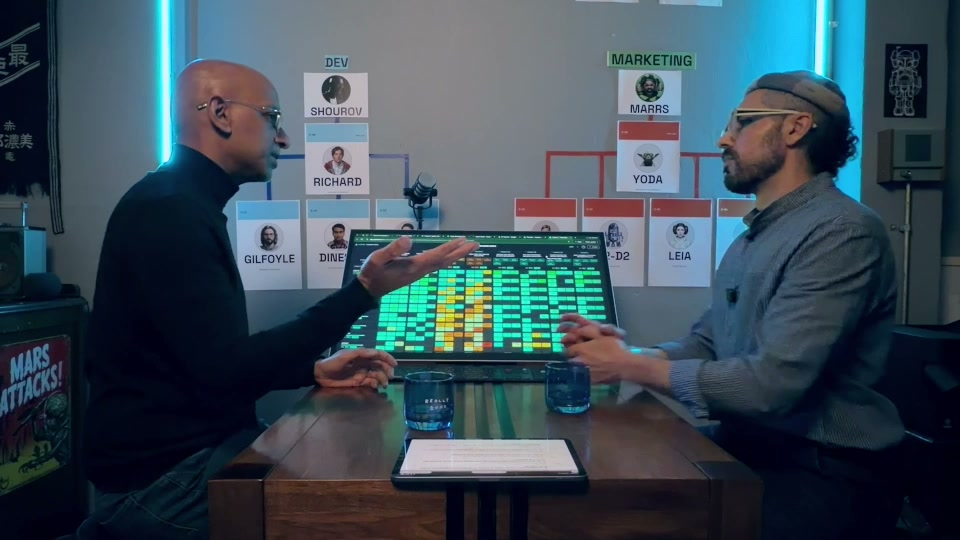
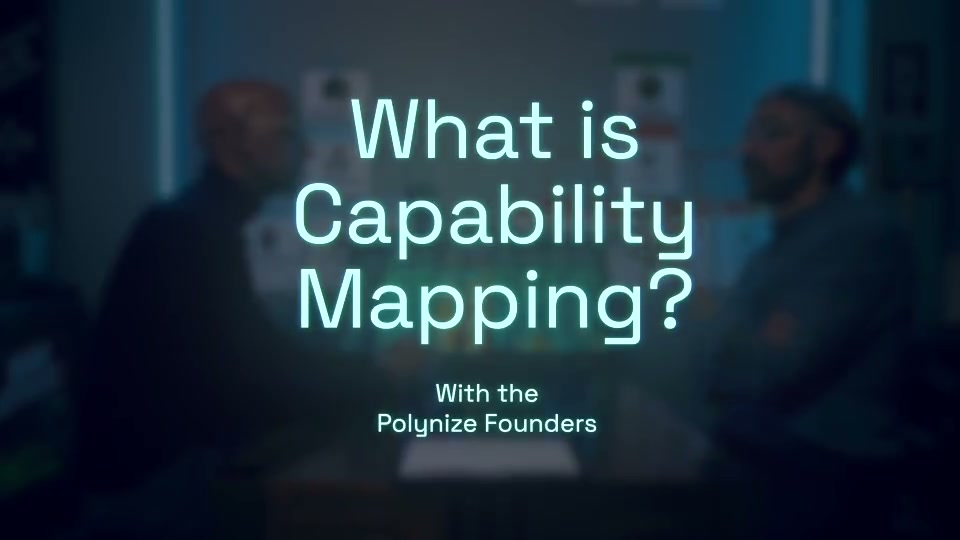
feat(mapping): real capability matrix image, video under hero, title-card poster
- Replace the hand-drawn CapabilityMatrix component with the real product
  capability matrix screenshot, placed under the "What it is" section.
- Reorder sections to: hero, video, problem, what it is, process, what you
  keep, proof, examples, who it is for, what comes next.
- Move the video directly beneath the hero.
- Use the video's own title card ("What is Capability Mapping? With the
  Polynize Founders") as the video poster.

diff --git a/app/mapping/MappingLanding.tsx b/app/mapping/MappingLanding.tsx
@@ -2,7 +2,6 @@ import Link from 'next/link';
 import { DraftingGrid } from '../_components/DraftingGrid';
 import { TrackedLink } from '../_components/TrackedLink';
 import { SiteFooter } from '../_components/SiteFooter';
-import { CapabilityMatrix } from './CapabilityMatrix';
 import { BOOKING_URL, type MappingContent } from './content';
 import s from './mapping.module.css';
 
@@ -38,10 +37,25 @@ export function MappingLanding({ content: c }: { content: MappingContent }) {
               </a>
             </div>
           </div>
-          <CapabilityMatrix />
         </section>
 
-        {/* 2. The problem */}
+        {/* 2. Video */}
+        <Section eyebrow="From the podcast" h2={c.video.h2}>
+          <div className={s.videoWrap}>
+            <video
+              className={s.video}
+              controls
+              preload="metadata"
+              poster={c.video.poster}
+              playsInline
+            >
+              <source src={c.video.src} type="video/mp4" />
+            </video>
+          </div>
+          <p className={s.videoCaption}>{c.video.caption}</p>
+        </Section>
+
+        {/* 3. The problem */}
         <Section eyebrow="The problem" h2={c.problem.h2}>
           <div className={s.prose}>
             {c.problem.paras.map((p, i) => (
@@ -52,7 +66,7 @@ export function MappingLanding({ content: c }: { content: MappingContent }) {
           </div>
         </Section>
 
-        {/* 3. What it is */}
+        {/* 4. What it is */}
         <Section eyebrow="What it is" h2={c.whatItIs.h2}>
           <div className={s.prose}>
             {c.whatItIs.paras.map((p, i) => (
@@ -67,26 +81,19 @@ export function MappingLanding({ content: c }: { content: MappingContent }) {
               </div>
             ))}
           </div>
+          <figure className={s.matrixFigure}>
+            {/* eslint-disable-next-line @next/next/no-img-element */}
+            <img
+              className={s.matrixImg}
+              src={c.matrixImage.src}
+              alt={c.matrixImage.alt}
+              loading="lazy"
+            />
+            <figcaption className={s.matrixCaption}>{c.matrixImage.caption}</figcaption>
+          </figure>
         </Section>
 
-        {/* 4. What you walk away with */}
-        <Section eyebrow="What you keep" h2={c.walkaway.h2}>
-          <p className={s.leadLine}>{c.walkaway.intro}</p>
-          <div className={s.walkList}>
-            {c.walkaway.items.map((it) => (
-              <div key={it.n} className={s.walkItem}>
-                <div className={s.walkNum}>{it.n}</div>
-                <div>
-                  <div className={s.walkTitle}>{it.title}</div>
-                  <div className={s.walkBody}>{it.body}</div>
-                </div>
-              </div>
-            ))}
-          </div>
-          <p className={s.walkFootnote}>{c.walkaway.footnote}</p>
-        </Section>
-
-        {/* 5. How it runs */}
+        {/* 5. The process */}
         <section id="how" className={s.section}>
           <div className={s.sectionHead}>
             <div className={s.eyebrow}>The process</div>
@@ -108,20 +115,21 @@ export function MappingLanding({ content: c }: { content: MappingContent }) {
           <p className={s.stagesLine}>{c.howItRuns.line}</p>
         </section>
 
-        {/* 6. Video */}
-        <Section eyebrow="From the podcast" h2={c.video.h2}>
-          <div className={s.videoWrap}>
-            <video
-              className={s.video}
-              controls
-              preload="metadata"
-              poster={c.video.poster}
-              playsInline
-            >
-              <source src={c.video.src} type="video/mp4" />
-            </video>
+        {/* 6. What you keep */}
+        <Section eyebrow="What you keep" h2={c.walkaway.h2}>
+          <p className={s.leadLine}>{c.walkaway.intro}</p>
+          <div className={s.walkList}>
+            {c.walkaway.items.map((it) => (
+              <div key={it.n} className={s.walkItem}>
+                <div className={s.walkNum}>{it.n}</div>
+                <div>
+                  <div className={s.walkTitle}>{it.title}</div>
+                  <div className={s.walkBody}>{it.body}</div>
+                </div>
+              </div>
+            ))}
           </div>
-          <p className={s.videoCaption}>{c.video.caption}</p>
+          <p className={s.walkFootnote}>{c.walkaway.footnote}</p>
         </Section>
 
         {/* 7. Proof */}

diff --git a/app/mapping/mapping.module.css b/app/mapping/mapping.module.css
@@ -114,8 +114,8 @@
 .leadLine { font-size: 16px; color: var(--text-2); margin: 0 0 28px; max-width: 720px; }
 
 /* ---------- Hero ---------- */
-.hero { padding: 40px 0 64px; }
-.heroCopy { max-width: 800px; margin-bottom: 44px; }
+.hero { padding: 40px 0 8px; }
+.heroCopy { max-width: 800px; }
 .heroSub {
   font-size: clamp(16px, 1.6vw, 18.5px);
   line-height: 1.6;
@@ -124,84 +124,24 @@
   max-width: 640px;
 }
 
-/* ---------- Capability matrix ---------- */
-.matrixFrame {
+/* ---------- Capability matrix (real screenshot) ---------- */
+.matrixFigure { margin: 40px 0 0; }
+.matrixImg {
+  display: block;
+  width: 100%;
+  height: auto;
   border: 1px solid var(--border-soft);
-  border-radius: 16px;
+  border-radius: 14px;
   background: var(--surface);
-  padding: 22px 24px 26px;
   box-shadow: 0 30px 80px rgba(0, 0, 0, 0.35);
 }
-.matrixHead {
-  display: flex;
-  align-items: center;
-  justify-content: space-between;
-  gap: 16px;
-  flex-wrap: wrap;
-  margin-bottom: 18px;
-}
-.matrixEyebrow {
-  font-family: var(--font-inter), monospace;
-  font-size: 11px;
-  letter-spacing: 0.2em;
-  text-transform: uppercase;
+.matrixCaption {
+  margin: 16px 0 0;
+  font-size: 13px;
   color: var(--text-3);
+  max-width: 720px;
+  line-height: 1.5;
 }
-.matrixLegend { display: flex; gap: 16px; }
-.legItem {
-  display: inline-flex;
-  align-items: center;
-  gap: 7px;
-  font-size: 11px;
-  color: var(--text-3);
-  letter-spacing: 0.02em;
-}
-.legDot { width: 10px; height: 10px; border-radius: 3px; }
-
-.matrixScroll { overflow-x: auto; }
-.matrixGrid {
-  display: grid;
-  grid-template-columns: minmax(118px, 1.5fr) repeat(var(--cols), minmax(46px, 1fr));
-  gap: 6px;
-  min-width: 620px;
-}
-.matrixRowContents { display: contents; }
-.matrixCorner { grid-column: 1; }
-.matrixColHead {
-  font-size: 10.5px;
-  color: var(--text-3);
-  letter-spacing: 0.02em;
-  text-align: center;
-  align-self: end;
-  padding-bottom: 6px;
-  line-height: 1.2;
-}
-.matrixRowHead {
-  font-size: 12.5px;
-  color: var(--text-2);
-  display: flex;
-  align-items: center;
-  padding-right: 12px;
-  min-height: 40px;
-}
-.matrixCell {
-  aspect-ratio: 1 / 1;
-  min-height: 34px;
-  border-radius: 5px;
-  border: 1px solid var(--border-soft);
-  background: transparent;
-  opacity: 0;
-  transform: scale(0.9);
-  transition: opacity 0.32s ease, transform 0.32s ease, background 0.2s ease, border-color 0.2s ease;
-}
-.cellOn { opacity: 1; transform: none; }
-.lvStrong { background: rgba(105, 252, 203, 0.82); border-color: rgba(105, 252, 203, 0.9); }
-.lvDev { background: rgba(240, 184, 107, 0.78); border-color: rgba(240, 184, 107, 0.85); }
-.lvGap { background: rgba(255, 122, 107, 0.9); border-color: rgba(255, 122, 107, 0.95); }
-/* legend dots reuse the level classes at full opacity via their own sizing */
-.legDot.lvStrong { background: var(--mint); }
-.legDot.lvDev { background: var(--amber); }
-.legDot.lvGap { background: var(--coral); }
 
 /* ---------- Card grids ---------- */
 .cards3 { display: grid; grid-template-columns: repeat(3, 1fr); gap: 16px; margin-top: 34px; }

diff --git a/app/mapping/content.ts b/app/mapping/content.ts
@@ -24,6 +24,7 @@ export type MappingContent = {
   };
   problem: { h2: string; paras: string[] };
   whatItIs: { h2: string; paras: string[]; cards: Card[] };
+  matrixImage: { src: string; alt: string; caption: string };
   walkaway: { h2: string; intro: string; items: WalkawayItem[]; footnote: string };
   howItRuns: { h2: string; stages: Stage[]; line: string };
   video: { h2: string; src: string; poster: string; caption: string };
@@ -134,6 +135,13 @@ export const mappingContent: MappingContent = {
       },
     ],
     line: 'No cap on how many people take part. We scope that with you up front.',
+  },
+
+  matrixImage: {
+    src: '/mapping/capability-matrix.jpg',
+    alt: 'A team capability matrix: people down the side, work scenarios across the top, each capability scored and coloured from strong to gap.',
+    caption:
+      'A real capability map. Every person against every part of the work, scored and coloured, with the gaps showing up plainly.',
   },
 
   video: {
